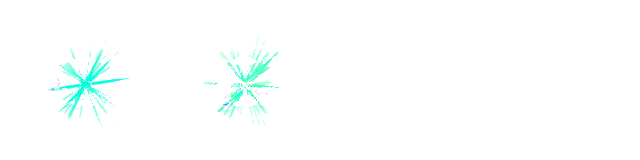
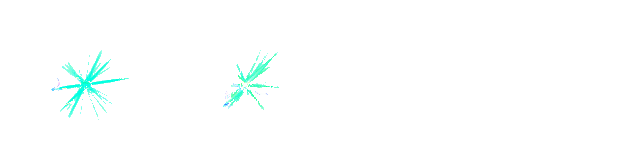
[rogue-visual-v233] Exclude captured clothing flecks while retaining full flare rays

diff --git a/tools/apply_rogue_v233.py b/tools/apply_rogue_v233.py
@@ -16,11 +16,15 @@ for n,rect in regions.items():
  base=np.min(frames,axis=0);h,w=base.shape[:2];valid=np.zeros((h,w),bool);x0,y0,x1,y1=rect;valid[y0:y1,x0:x1]=True;tiles=[];counts=[];left=[]
  for c in frames:
   diff=np.maximum(c-base,0);em=np.clip(diff/np.maximum(255-base,1),0,1);alpha=np.max(em,2);r,g,b=c[:,:,0],c[:,:,1],c[:,:,2];white=(np.min(c,2)>170)&(np.min(diff,2)>24)
-  if n in ('007','014','022'):colour=(r>g+30)&(b>g+30)
-  elif n=='021':colour=(g>r+25)&(b>r+25)
+  if n in ('007','014','022'):colour=(r>g+30)&(b>g+30)&(b>100)
+  elif n=='021':colour=(g>r+25)&(b>r+25)&(g>80)&(b>100)
+  elif n=='029':colour=(np.min(c,2)>125)&(r>=g)&(g>=b)
   elif n=='028':colour=(np.min(c,2)>145)&(np.max(c,2)-np.min(c,2)<55)
   else:colour=(r>170)&(g>120)&(r>b+25)&(g>b+15)
   mask=valid&(np.max(diff,2)>23)&(colour|white)
+  if n in ('013','016'):
+   # Only actual white glow can be distinguished from golden source clothes here.
+   mask[43:94,43:66]&=white[43:94,43:66]
   # Keep fine original particles; discard newly exposed isolated actor/UI flecks.
   labels,count=ndimage.label(mask);oldregion=ch['review']['region'];old=np.zeros_like(mask);old[oldregion[1]:oldregion[3],oldregion[0]:oldregion[2]]=True
   for label in range(1,count+1):
